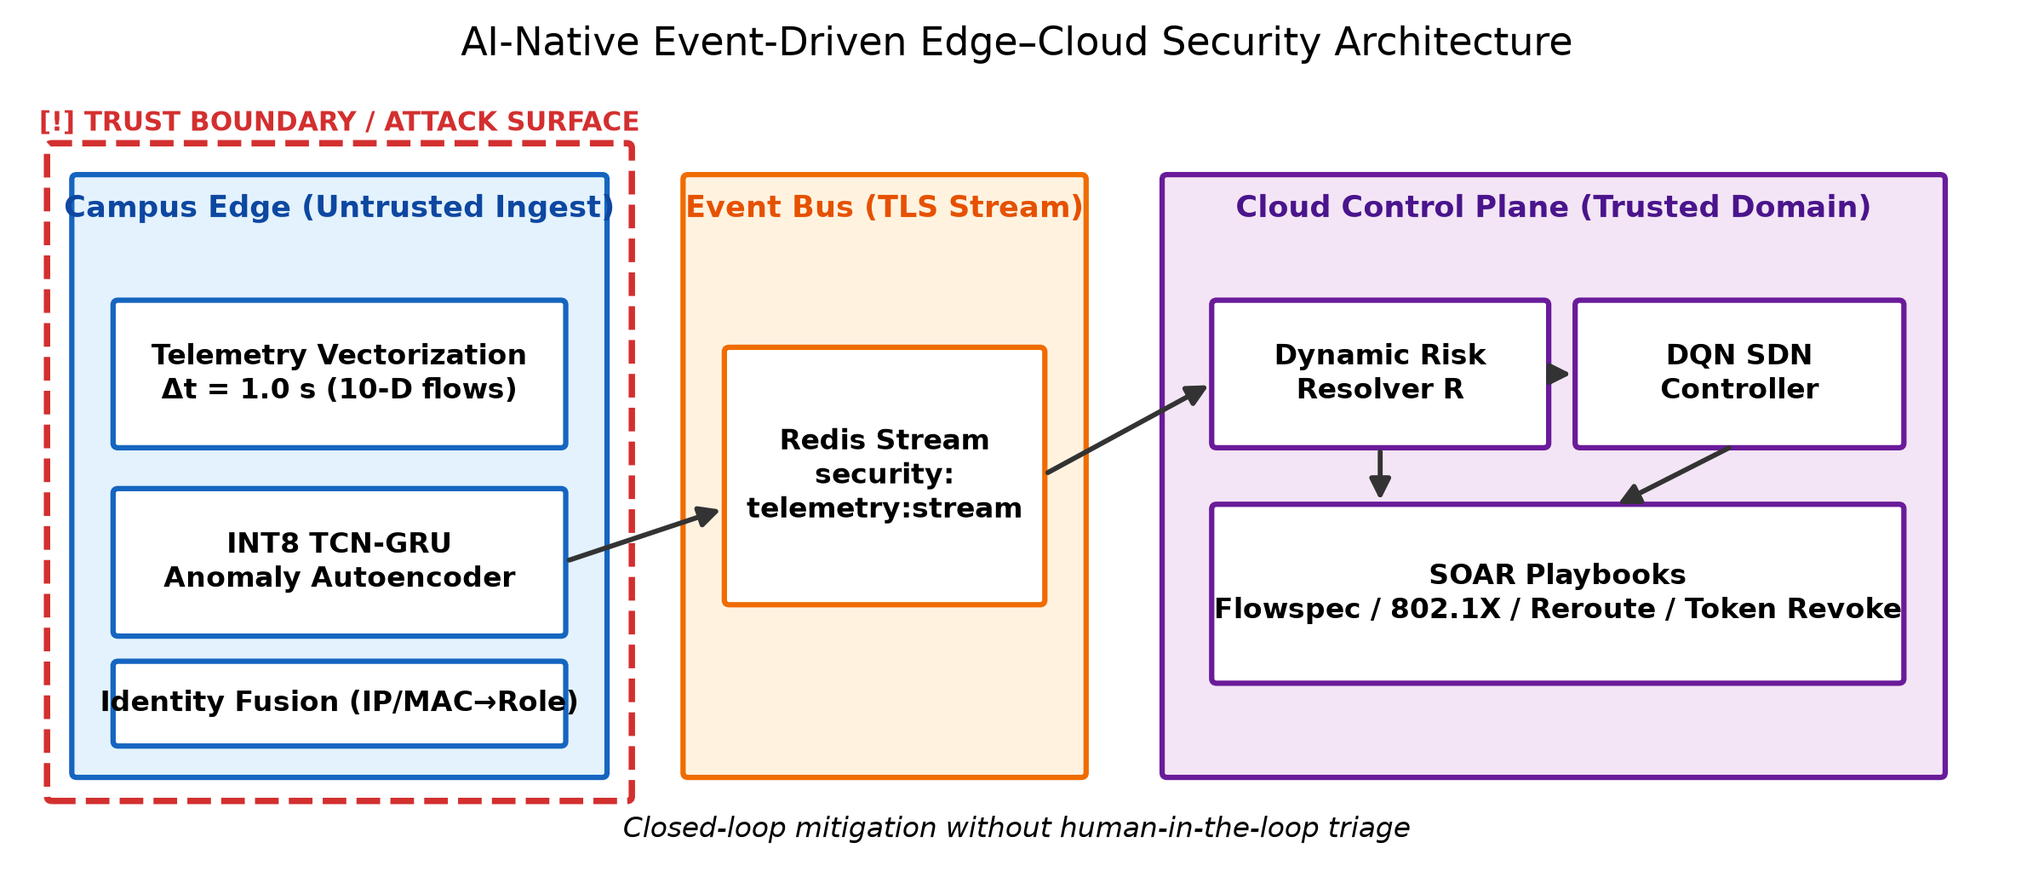
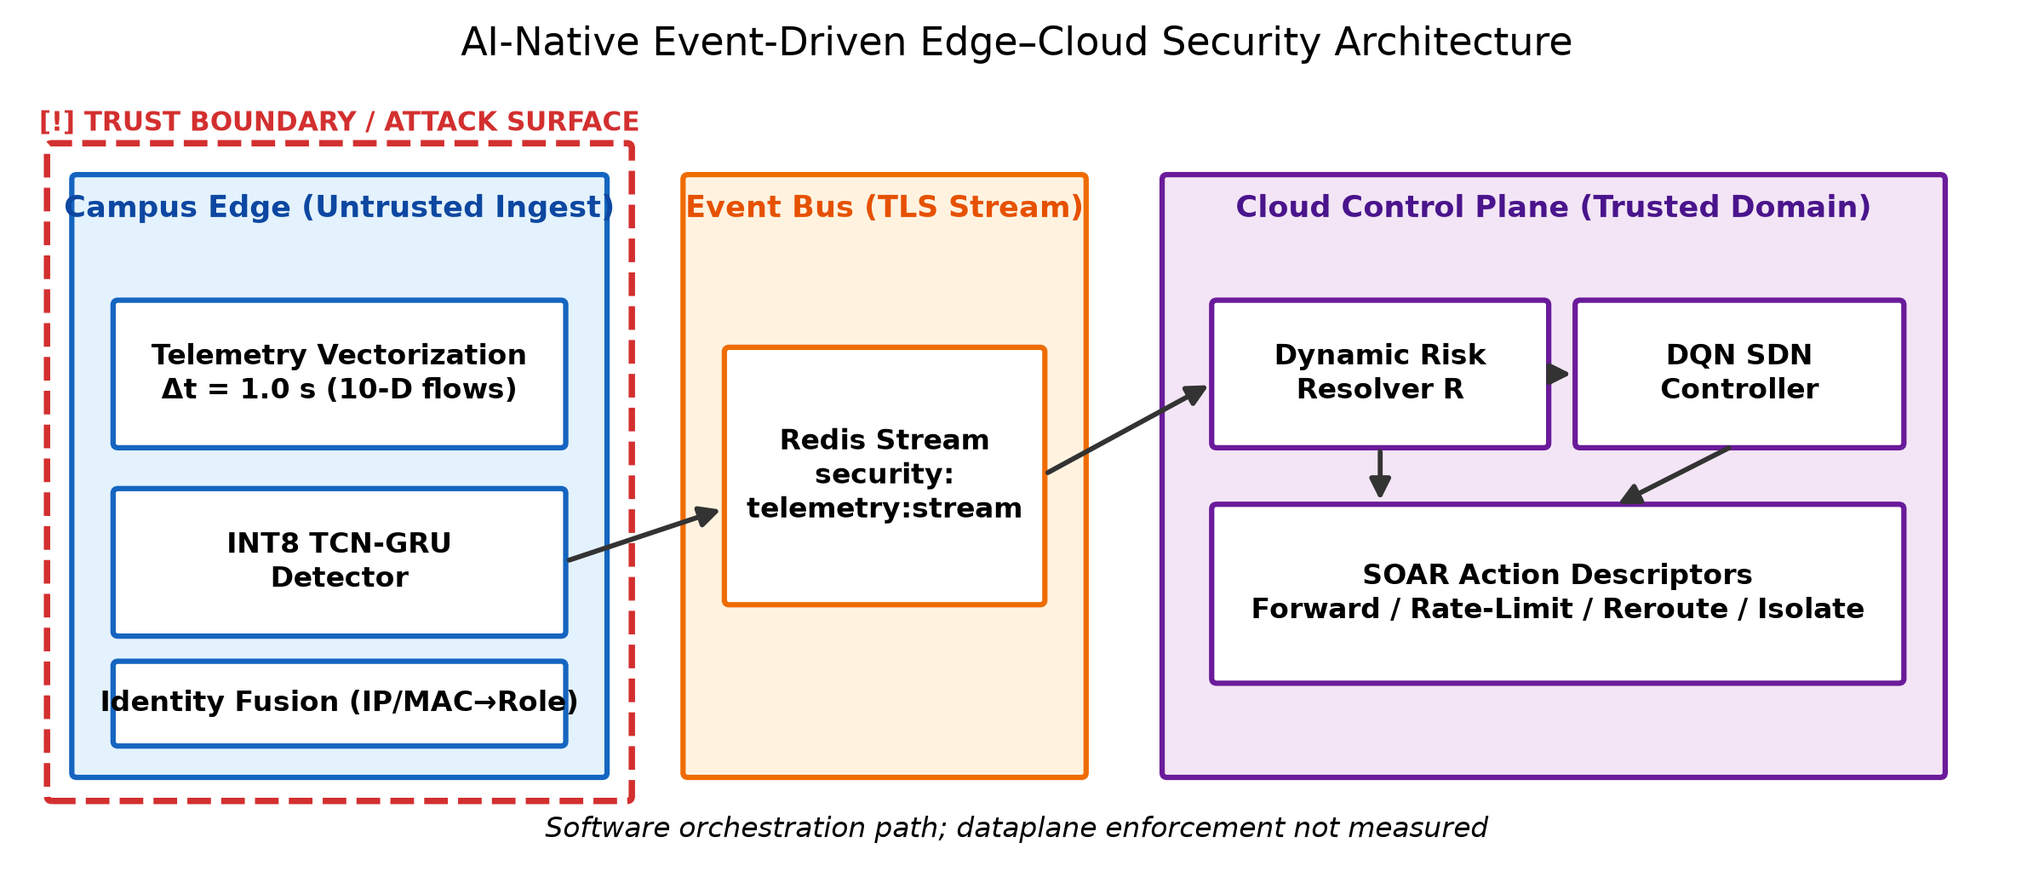
Align Figure 1 and manuscript with measured software-orchestration scope; sync source to submission PDF.
Replace closed-loop/FlowSpec figure labels with action descriptors, drop actuation wording, document Load Met at 95%, and push the latency-synced tex/PDF.

Changed region(s): [[0.5888, 0.6095, 0.9296, 0.701], [0.2479, 0.9143, 0.7437, 0.9448], [0.062, 0.64, 0.2479, 0.6705]]

diff --git a/icaifai.tex b/icaifai.tex
@@ -26,7 +26,7 @@ Ho Chi Minh City, Vietnam\\ Email: 23dh113972@st.huflit.edu.vn, thanhct@huflit.e
 \maketitle
 
 \begin{abstract}
-University campus networks combine unmanaged BYOD endpoints, open research laboratories, and high-density IoT deployments, creating an expansive attack surface where traditional Security Operations Center (SOC) workflows struggle with long operational Mean Time to Respond (MTTR). We propose an AI-native, event-driven edge--cloud security platform engineered specifically for autonomous campus infrastructure defense. The architecture deploys lightweight INT8-quantized TCN--GRU sequence models at network edge gateways to score non-DPI flow telemetry. Enriched security events are carried asynchronously over a Redis Streams consumer group to a cloud risk resolver and Deep Q-Network (DQN) Software-Defined Networking (SDN) policy that emits SOAR playbooks; installing them in the dataplane is outside what we measure. Evaluated on \textbf{real InSDN} flow windows~\cite{b1} ($20{,}000$ stratified samples), the platform achieves a \emph{software control-path} latency --- prepared-window edge inference, simulated identity enrichment with HMAC \texttt{principal\_id}, Redis \texttt{XADD}/\texttt{XREADGROUP}, DQN selection, and playbook construction for the selected action, excluding dataplane enforcement --- with a $3.685$~ms median and a $6.285$~ms p99 on localhost Redis~7.2.4. Because stride-1 windows overlap by nine of ten timesteps, we evaluate under a blocked and purged split that removes stride-1 index overlap, with a train-only scaler; comparing that protocol to a conventional random split yields a near-null leakage effect ($|\Delta F1| < 0.002$ at fixed $\tau$). Under the controlled protocol the INT8 detector reaches $F1 = 0.9340$ at $\tau = 0.65$ with a $0.048$~MB footprint and negligible quantization loss ($|\Delta F1| \le 0.0002$). We further report five negative results: gradient-boosted trees on the same features outperform the proposed detector (LightGBM $F1 = 0.9886$ against $0.9723$), leaving it only a footprint advantage; reconstruction-error scoring is unusable on this attack-heavy corpus ($F1 \approx 0.035$), so detection rests entirely on the supervised head; our edge CPU budget is missed ($36.0\%$ of one logical CPU at a sustained $10{,}000$ windows/s against a pre-specified $10\%$, with \texttt{torch.set\_num\_threads(1)}); zero-shot transfer to CIC-IDS2017 collapses ($F1 = 0.456$); and localhost Redis Streams is not faster than a tight REST loopback, so the bus is justified by the multi-consumer deployment model rather than single-host IPC speed. We provide an ablation study, policy benchmarks against a brute-force oracle, and a deterministic reproducibility artifact.
+University campus networks combine unmanaged BYOD endpoints, open research laboratories, and high-density IoT deployments, creating an expansive attack surface where traditional Security Operations Center (SOC) workflows struggle with long operational Mean Time to Respond (MTTR). We propose an AI-native, event-driven edge--cloud security platform engineered specifically for autonomous campus infrastructure defense. The architecture deploys lightweight INT8-quantized TCN--GRU sequence models at network edge gateways to score non-DPI flow telemetry. Enriched security events are carried asynchronously over a Redis Streams consumer group to a cloud risk resolver and Deep Q-Network (DQN) Software-Defined Networking (SDN) policy that emits SOAR playbooks; installing them in the dataplane is outside what we measure. Detection is evaluated on $20{,}000$ stratified \textbf{real InSDN} windows~\cite{b1}. Separately, a $1{,}000$-trial control-path microbenchmark on one prepared held-out window (INT8 inference, HMAC \texttt{principal\_id}, Redis \texttt{XADD}/\texttt{XREADGROUP}, DQN, playbook construction; no dataplane) achieves a $4.793$~ms median and a $7.202$~ms p99 on localhost Redis~7.2.4. Because stride-1 windows overlap by nine of ten timesteps, we evaluate under a blocked and purged split that removes stride-1 index overlap, with a train-only scaler; comparing that protocol to a conventional random split yields a near-null leakage effect ($|\Delta F1| < 0.002$ at fixed $\tau$). Under the controlled protocol the INT8 detector reaches $F1 = 0.9340$ at $\tau = 0.65$ with a $0.048$~MB footprint and negligible quantization loss ($|\Delta F1| \le 0.0002$). We further report five negative results: gradient-boosted trees on the same features outperform the proposed detector (LightGBM $F1 = 0.9886$ against $0.9723$), leaving it only a footprint advantage; reconstruction-error scoring is unusable on this attack-heavy corpus ($F1 \approx 0.035$), so detection rests entirely on the supervised head; our edge CPU budget is missed ($36.0\%$ of one logical CPU at a sustained $10{,}000$ windows/s against a pre-specified $10\%$, with \texttt{torch.set\_num\_threads(1)}); zero-shot transfer to CIC-IDS2017 collapses ($F1 = 0.456$); and localhost Redis Streams is not faster than a tight REST loopback, so the bus is justified by the multi-consumer deployment model rather than single-host IPC speed. We provide an ablation study, policy benchmarks against a brute-force oracle, and a seeded reproducibility artifact.
 \end{abstract}
 
 \begin{IEEEkeywords}
@@ -59,7 +59,7 @@ The principal contributions of this work are:
 \begin{enumerate}
     \item \textbf{Decoupled AI-Native Pipeline:} An event-driven architecture combining PyTorch INT8 TCN--GRU edge detectors, simulated identity-context fusion, HMAC principal pseudonymization, and a Redis Streams consumer-group event transport, with a DQN policy that \emph{emits} SDN/SOAR action descriptors for forwarding, rate limiting, rerouting, and isolation. We measure the software path that produces those descriptors, not their installation in the dataplane.
     \item \textbf{Empirical Validation \& Negative Results:} Microbenchmarks on real InSDN~\cite{b1} traffic, with Redis Streams in the timed path, ablation, policy benchmarks against a brute-force oracle, saturation analysis, and a CIC-IDS2017~\cite{b2} holdout. We report five negative results --- failure of reconstruction-error scoring, a near-null leakage effect from stride-1 overlap, rejection of our edge CPU budget (H2), severe zero-shot transfer failure, and gradient-boosted trees outperforming the proposed detector --- that bound where this design is deployable.
-    \item \textbf{Deterministic Artifact:} A reproducibility artifact regenerating every quantitative result table in Section~\ref{sec:results} from one seeded entry point, at \url{https://github.com/thtcsec/icai-fai2026}.
+    \item \textbf{Seeded Reproducibility Artifact:} A reproducibility artifact regenerating every quantitative result table in Section~\ref{sec:results} from one seeded entry point, at \url{https://github.com/thtcsec/icai-fai2026}.
 \end{enumerate}
 
 \section{Related Work}
@@ -104,7 +104,7 @@ Fig.~\ref{fig_threat_model} illustrates the campus network topology, trust bound
 
 \begin{figure}[htbp]
 \centerline{\includegraphics[width=0.98\linewidth]{AI-Native-Security-Platform/paper/figures/fig1_architecture.png}}
-\caption{AI-native event-driven edge--cloud security architecture and trust boundary enforcement.}
+\caption{AI-native event-driven edge--cloud software orchestration path and trust boundary. SOAR boxes are action descriptors only; dataplane enforcement is not measured.}
 \label{fig_threat_model}
 \end{figure}
 
@@ -155,7 +155,7 @@ Enriched events stream asynchronously to Redis topic \texttt{security:telemetry:
 R = w_1 P(\text{attack}) + w_2 (1-\text{TrustScore}) + w_3 \text{AssetCriticality},
 \label{eq:risk}
 \end{equation}
-with $(w_1, w_2, w_3) = (0.60, 0.25, 0.15)$ in all reported experiments; the fused term is the classifier probability, not $RE(x)$. When identity is ablated the trust term is undefined and its weight folds into detection, giving $R = 0.85\,P(\text{attack}) + 0.15\,\text{AssetCriticality}$, keeping scores comparable across arms. Severity bands map $R$ to preferred containment intensity, but the timed prototype actuates only the four DQN actions below.
+with $(w_1, w_2, w_3) = (0.60, 0.25, 0.15)$ in all reported experiments; the fused term is the classifier probability, not $RE(x)$. When identity is ablated the trust term is undefined and its weight folds into detection, giving $R = 0.85\,P(\text{attack}) + 0.15\,\text{AssetCriticality}$, keeping scores comparable across arms. Severity bands map $R$ to preferred containment intensity, but the timed prototype constructs descriptors only for the four DQN actions below.
 
 Two caveats. The weights are hand-set, not learned, and encode a design prior we do not claim is optimal. More importantly, InSDN carries no asset inventory, so AssetCriticality is drawn i.i.d.\ uniform on $[0,1]$ in every experiment and is pure noise; the third term therefore \emph{degrades} our numbers, and the risk-engine benefit reported later comes from the trust term alone.
 
@@ -267,7 +267,7 @@ Per-inference latency and throughput reconcile only once the batching regime is 
 We deliberately omit a legacy inline-DPI comparison. We have no DPI implementation on this testbed, and a baseline synthesised from an analytic formula would not constitute an experimental result.
 
 \begin{table}[htbp]
-\caption{Edge Cost at Paced Offered Load (batch $=128$, \texttt{torch.set\_num\_threads(1)}), median of $5$ repeats. CPU is \% of one logical CPU ($100\%=$ one core busy) over the paced wall-clock window, including rate-limit sleeps. \textbf{Load Met} means every repeat hit the offered throughput target; it is not the H2 CPU-budget decision.}
+\caption{Edge Cost at Paced Offered Load (batch $=128$, \texttt{torch.set\_num\_threads(1)}), median of $5$ repeats. CPU is \% of one logical CPU ($100\%=$ one core busy) over the paced wall-clock window, including rate-limit sleeps. \textbf{Load Met} means every repeat achieved at least $95\%$ of the offered throughput target; it is not the H2 CPU-budget decision.}
 \label{tab:resource}
 \begin{center}
 \resizebox{\columnwidth}{!}{%
@@ -289,7 +289,7 @@ We deliberately omit a legacy inline-DPI comparison. We have no DPI implementati
 \label{sec:sota}
 Table~\ref{tab:sota} compares our INT8 TCN--GRU against unsupervised, tabular and sequence baselines trained on the identical InSDN split; Transformer AE is a 2-layer encoder-decoder with 4 attention heads and masked reconstruction loss. Every model is scored at its own optimal threshold, since a threshold favouring one architecture need not suit another. \emph{That threshold is selected by searching the test split}, so each $F1$ here is an optimistic bound rather than a deployable operating point; the identical search is applied to every model, so comparison between rows stays internally fair. The tree ensembles receive the window flattened to $T \times d = 100$ features --- the same raw information the sequence models see --- so the comparison does not handicap them.
 
-\textbf{Gradient-boosted trees beat the proposed detector, and this is a negative result.} LightGBM~\cite{b25} reaches $F1 = 0.9886$ and XGBoost~\cite{b26} $0.9880$ against $0.9723$ for INT8 TCN--GRU, and XGBoost does it at $0.399$~ms per inference against $1.935$~ms. Random Forest also exceeds TCN--GRU ($0.9843$). On ten aggregate flow statistics, the temporal structure a TCN--GRU exists to exploit is evidently not where the discriminative signal lives. One advantage survives: the INT8 model footprint is $0.048$~MB against serialized tree objects of $0.845$--$20.6$~MB, but the RQ2 budget was $1$~MB and XGBoost fits inside it.
+\textbf{Gradient-boosted trees beat the proposed detector, and this is a negative result.} LightGBM~\cite{b25} reaches $F1 = 0.9886$ and XGBoost~\cite{b26} $0.9880$ against $0.9723$ for INT8 TCN--GRU, and XGBoost does it at $0.399$~ms per inference against $1.935$~ms. Random Forest also exceeds TCN--GRU ($0.9843$). On these features and shuffled index-order contexts, trees outperform TCN--GRU, so this run does not establish a temporal-modeling advantage; capture-order or session-grouped evaluation is required before concluding about temporal signal. One advantage survives: the INT8 model footprint is $0.048$~MB against serialized tree objects of $0.845$--$20.6$~MB, but the RQ2 budget was $1$~MB and XGBoost fits inside it.
 
 The Isolation Forest row uses \texttt{contamination="auto"} on time-averaged windows; on an $80\%$-attack corpus this heuristic is badly mismatched, so $F1 = 0.2000$ evidences that an untuned classical outlier detector fails at this class balance rather than serving as a tuned baseline.
 
@@ -337,7 +337,7 @@ The result contradicts our expectation. Identity fusion and the risk engine \emp
 \hline
 \textbf{Full Proposed Pipeline} & \textbf{0.9616} & \textbf{16.74} & \textbf{4.946} \\
 --- w/o Identity Context Fusion & 0.9644 & 21.59 & 4.945 \\
---- w/o Cloud Risk Engine (Direct Edge Actuation) & 0.9680 & 23.77 & 4.945 \\
+--- w/o Cloud Risk Engine (Direct Edge Scoring) & 0.9680 & 23.77 & 4.945 \\
 --- w/o INT8 Quantization (FP32 Baseline) & 0.9694 & 19.16 & 2.838 \\
 --- w/o Redis Streams (Synchronous REST Call) & 0.9616 & 16.74 & 4.452 \\
 \hline
@@ -426,11 +426,11 @@ InSDN $\rightarrow$ CIC-IDS2017 & $\tau^*=0.0672$ & 0.3052 & 0.9913 & 0.4668 \\
     \item \textbf{Reproducibility:} An earlier version of this artifact constructed models before seeding the global RNG, so detection metrics varied between runs of the same script. \texttt{set\_global\_seed} now runs at the head of every generator, before any module is built, making each script bit-deterministic. It is \emph{not} re-invoked before each individual model, so a model built after several others inherits an RNG advanced by their construction --- which is exactly why the same detector scores $0.9679$ in Section~\ref{sec:threshold} and $0.9723$ in Section~\ref{sec:sota}. Determinism at a fixed seed is not robustness across seeds; accuracy is single-seed throughout.
     \item \textbf{External Validity:} Evaluation uses public InSDN and CIC benchmarks; broader IoT/IIoT corpora such as UNSW-NB15~\cite{b6}, ToN\_IoT~\cite{b7}, and Edge-IIoTset~\cite{b8} offer complementary vectors for multi-campus validation.
     \item \textbf{Construct Validity:} Metrics assume clean flow labels; noisy headers could affect precision. We report no human-SOC comparison: we have no measured analyst baseline, and a stipulated one would establish only that milliseconds beat minutes, which needs no experiment.
-    \item \textbf{Residual Leakage Risk:} Purging guarantees no shared timestep \emph{index}, but blocks are cut over the post-shuffle window order of the frozen archive, not capture-time or session boundaries. The protocol therefore bounds stride-1 index-overlap leakage; it does not isolate wall-clock attack episodes. Session-aware grouping would be stronger; InSDN does not expose the required metadata, and our 50k subsample was shuffled before windowing.
+    \item \textbf{Residual Leakage Risk:} Purging removes shared timestep \emph{indices} over the post-shuffle window order, bounding stride-1 index-overlap leakage rather than wall-clock or session isolation. Session-aware grouping would be stronger; InSDN lacks the metadata, and our 50k subsample was shuffled before windowing.
 \end{itemize}
 
 \subsection{Limitations \& Future Work}
-Primary limitations: (i) no executable Mininet/Ryu dataplane in this artifact and no measured \texttt{flow\_mod} install; (ii) no evaluation of adversarial robustness against evasion; (iii) severe zero-shot cross-dataset degradation; (iv) rejection of H2 on its CPU term, costing a median $36.0\%$ of one logical CPU against a $10\%$ budget at $10{,}000$~windows/s; (v) a detector outperformed on these features by off-the-shelf gradient boosting, leaving its case resting on footprint alone; (vi) Redis Streams measured on localhost, so cross-host network RTT is uncounted, and localhost REST can beat Redis on IPC alone; (vii) single-seed reporting of accuracy; (viii) identity context remains a simulated overlay; and (ix) the $3.685$~ms control-path median is a batch-$1$/sequential path, whereas the $10{,}000$~windows/s throughput figure uses batch $=128$, so the two results do \emph{not} jointly prove sustained sub-10~ms decisions at that offered load once batching and queueing delay are counted. Future work: dataplane integration, domain adaptation, compiled ONNX/TensorRT edge runtimes, online threshold tuning, multi-seed reporting, and federated multi-campus learning.
+Primary limitations: (i) no executable Mininet/Ryu dataplane in this artifact and no measured \texttt{flow\_mod} install; (ii) no evaluation of adversarial robustness against evasion; (iii) severe zero-shot cross-dataset degradation; (iv) rejection of H2 on its CPU term, costing a median $36.0\%$ of one logical CPU against a $10\%$ budget at $10{,}000$~windows/s; (v) a detector outperformed on these features by off-the-shelf gradient boosting, leaving its case resting on footprint alone; (vi) Redis Streams measured on localhost, so cross-host network RTT is uncounted, and localhost REST can beat Redis on IPC alone; (vii) single-seed reporting of accuracy; (viii) identity context remains a simulated overlay; and (ix) the $4.793$~ms control-path median is a batch-$1$/sequential path, whereas the $10{,}000$~windows/s throughput figure uses batch $=128$, so the two results do \emph{not} jointly prove sustained sub-10~ms decisions at that offered load once batching and queueing delay are counted. Future work: dataplane integration, domain adaptation, compiled ONNX/TensorRT edge runtimes, online threshold tuning, multi-seed reporting, and federated multi-campus learning.
 
 \section{Ethics, Privacy \& Public Artifact}
 \subsection{Privacy Posture}
@@ -440,7 +440,7 @@ The architecture operates on non-DPI flow headers. Edge identity lookup uses a s
 Code, frozen window archives, window-rebuild recipe, checkpoints, Docker files, and scripts are available under MIT License at \url{https://github.com/thtcsec/icai-fai2026}. Every quantitative result table in Section~\ref{sec:results} is regenerated by \texttt{results/run\_all\_and\_summarize.py} (seed \texttt{42}), which emits \texttt{results/paper\_metrics\_summary.json}. Dataset SHA-256 manifests live under \texttt{datasets/}.
 
 \section{Conclusion}
-This paper presented an AI-native event-driven edge--cloud architecture for autonomous campus network security. Combining INT8-quantized TCN--GRU edge detectors, HMAC-pseudonymized Redis Streams transport, and cloud DQN action selection and orchestration, it achieves a software control path with a $3.685$~ms median and a $6.285$~ms p99 on an Intel Core i7-13620H host with localhost Redis~7.2.4, from prepared-window inference to playbook construction. We stop short of calling this closed-loop mitigation: dataplane enforcement is unmeasured, and we report no measured human-SOC comparison.
+This paper presented an AI-native event-driven edge--cloud architecture for autonomous campus network security. Combining INT8-quantized TCN--GRU edge detectors, HMAC-pseudonymized Redis Streams transport, and cloud DQN action selection and orchestration, it achieves a software control path with a $4.793$~ms median and a $7.202$~ms p99 on an Intel Core i7-13620H host with localhost Redis~7.2.4, from prepared-window inference to playbook construction. We stop short of calling this closed-loop mitigation: dataplane enforcement is unmeasured, and we report no measured human-SOC comparison.
 
 The results we think transfer beyond this system are the negative ones. Gradient-boosted trees on the same features beat the proposed detector ($F1 = 0.9886$ for LightGBM against $0.9723$). Reconstruction-error scoring is unusable on an attack-heavy corpus ($F1 \approx 0.035$). Leakage from stride-1 overlap is near-null on this run ($|\Delta F1| < 0.002$). H2 fails on its CPU term, sustaining $10{,}000$ windows/s but at $36.0\%$ of one logical CPU against a $10\%$ budget. Zero-shot transfer to CIC-IDS2017 collapses to $F1 = 0.456$. Together these bound where an AI-native campus defense is currently practical, and they point the architecture's value at integration and orchestration rather than at the choice of detector.
 

diff --git a/AI-Native-Security-Platform/results/generate_architecture_figure.py b/AI-Native-Security-Platform/results/generate_architecture_figure.py
@@ -51,14 +51,14 @@ def generate_architecture_figure():
     ax.text(9.25, 4.15, "Cloud Control Plane (Trusted Domain)", ha="center", fontsize=8.5, fontweight="bold", color="#4A148C")
 
     _box(ax, 0.55, 2.7, 2.7, 0.9, "Telemetry Vectorization\nΔt = 1.0 s (10-D flows)", "#FFFFFF", "#1565C0")
-    _box(ax, 0.55, 1.5, 2.7, 0.9, "INT8 TCN-GRU\nAnomaly Autoencoder", "#FFFFFF", "#1565C0")
+    _box(ax, 0.55, 1.5, 2.7, 0.9, "INT8 TCN-GRU\nDetector", "#FFFFFF", "#1565C0")
     _box(ax, 0.55, 0.8, 2.7, 0.5, "Identity Fusion (IP/MAC→Role)", "#FFFFFF", "#1565C0")
 
     _box(ax, 4.25, 1.7, 1.9, 1.6, "Redis Stream\nsecurity:\ntelemetry:stream", "#FFFFFF", "#EF6C00")
 
     _box(ax, 7.2, 2.7, 2.0, 0.9, "Dynamic Risk\nResolver R", "#FFFFFF", "#6A1B9A")
     _box(ax, 9.4, 2.7, 1.95, 0.9, "DQN SDN\nController", "#FFFFFF", "#6A1B9A")
-    _box(ax, 7.2, 1.2, 4.15, 1.1, "SOAR Playbooks\nFlowspec / 802.1X / Reroute / Token Revoke", "#FFFFFF", "#6A1B9A")
+    _box(ax, 7.2, 1.2, 4.15, 1.1, "SOAR Action Descriptors\nForward / Rate-Limit / Reroute / Isolate", "#FFFFFF", "#6A1B9A")
 
     arrows = [
         ((3.25, 1.95), (4.25, 2.3)),
@@ -79,7 +79,14 @@ def generate_architecture_figure():
             )
         )
 
-    ax.text(6.0, 0.2, "Closed-loop mitigation without human-in-the-loop triage", ha="center", fontsize=8, style="italic")
+    ax.text(
+        6.0,
+        0.2,
+        "Software orchestration path; dataplane enforcement not measured",
+        ha="center",
+        fontsize=8,
+        style="italic",
+    )
 
     os.makedirs(os.path.dirname(OUT_PNG), exist_ok=True)
     plt.tight_layout()

diff --git a/AI-Native-Security-Platform/results/generate_table8.py b/AI-Native-Security-Platform/results/generate_table8.py
@@ -203,7 +203,7 @@ def run_ablation(seed: int = 42):
     configs = [
         ("Full Proposed Pipeline", p_int8, p_int8_tr, True, True, int8_ms + fusion_ms + risk_ms + async_ms),
         ("--- w/o Identity Context Fusion", p_int8, p_int8_tr, False, True, int8_ms + risk_ms + async_ms),
-        ("--- w/o Cloud Risk Engine (Direct Edge Actuation)", p_int8, p_int8_tr, False, False, int8_ms + async_ms),
+        ("--- w/o Cloud Risk Engine (Direct Edge Scoring)", p_int8, p_int8_tr, False, False, int8_ms + async_ms),
         ("--- w/o INT8 Quantization (FP32 Baseline)", p_fp32, p_fp32_tr, True, True, fp32_ms + fusion_ms + risk_ms + async_ms),
         ("--- w/o Redis Streams (Synchronous REST Call)", p_int8, p_int8_tr, True, True, int8_ms + fusion_ms + risk_ms + sync_ms),
     ]
